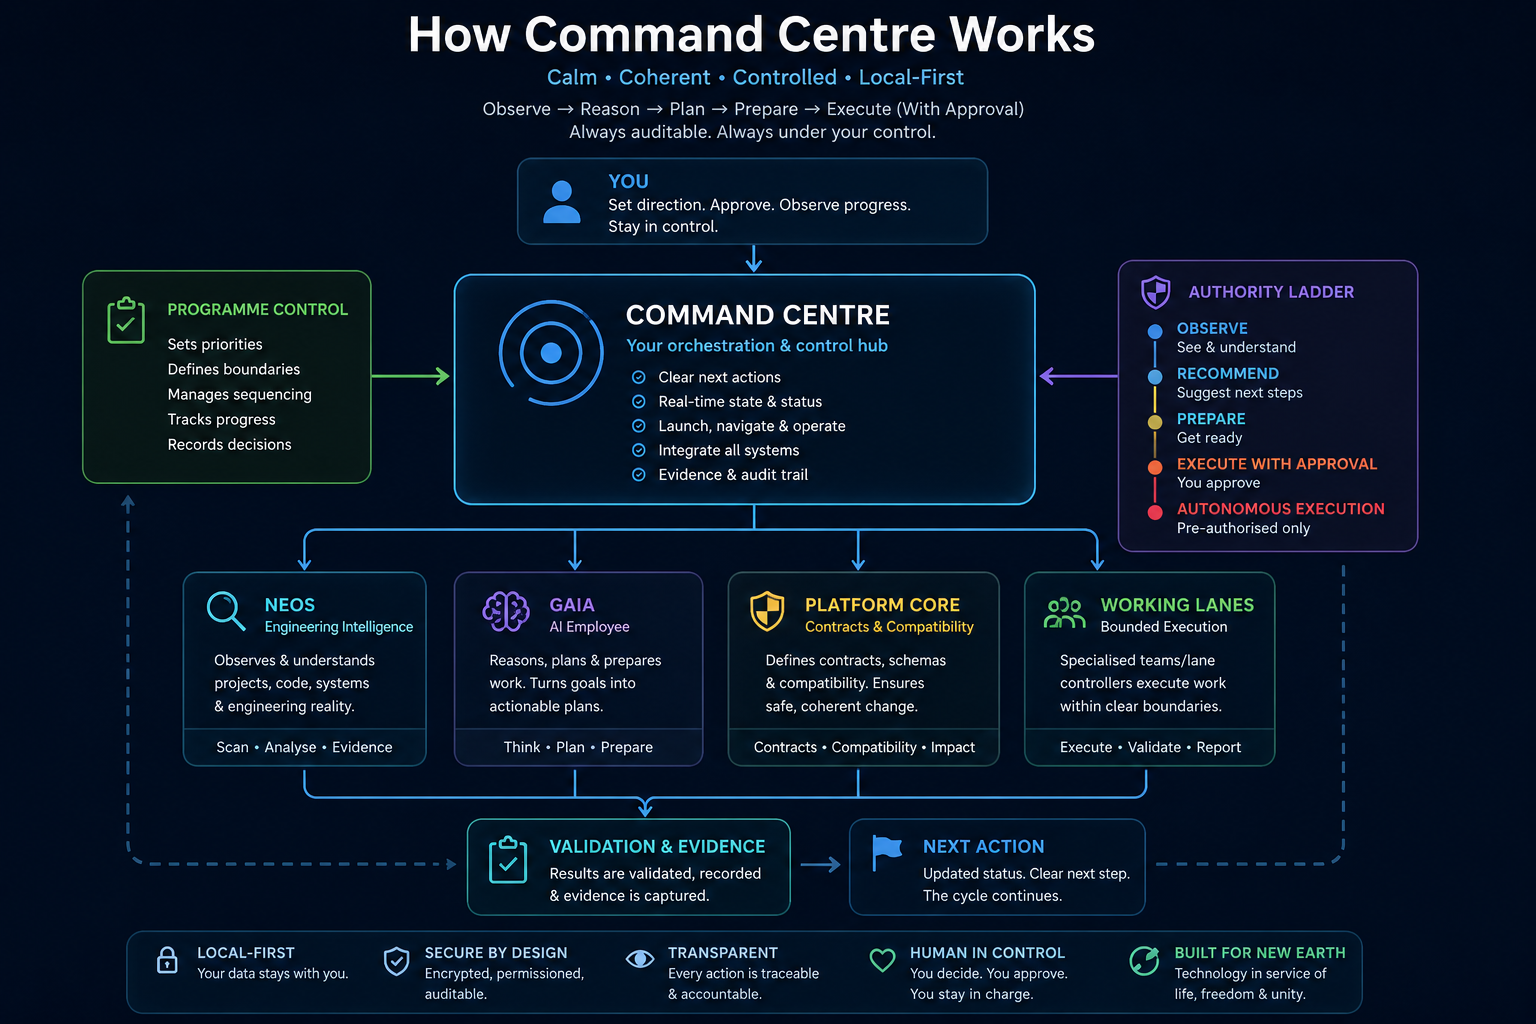
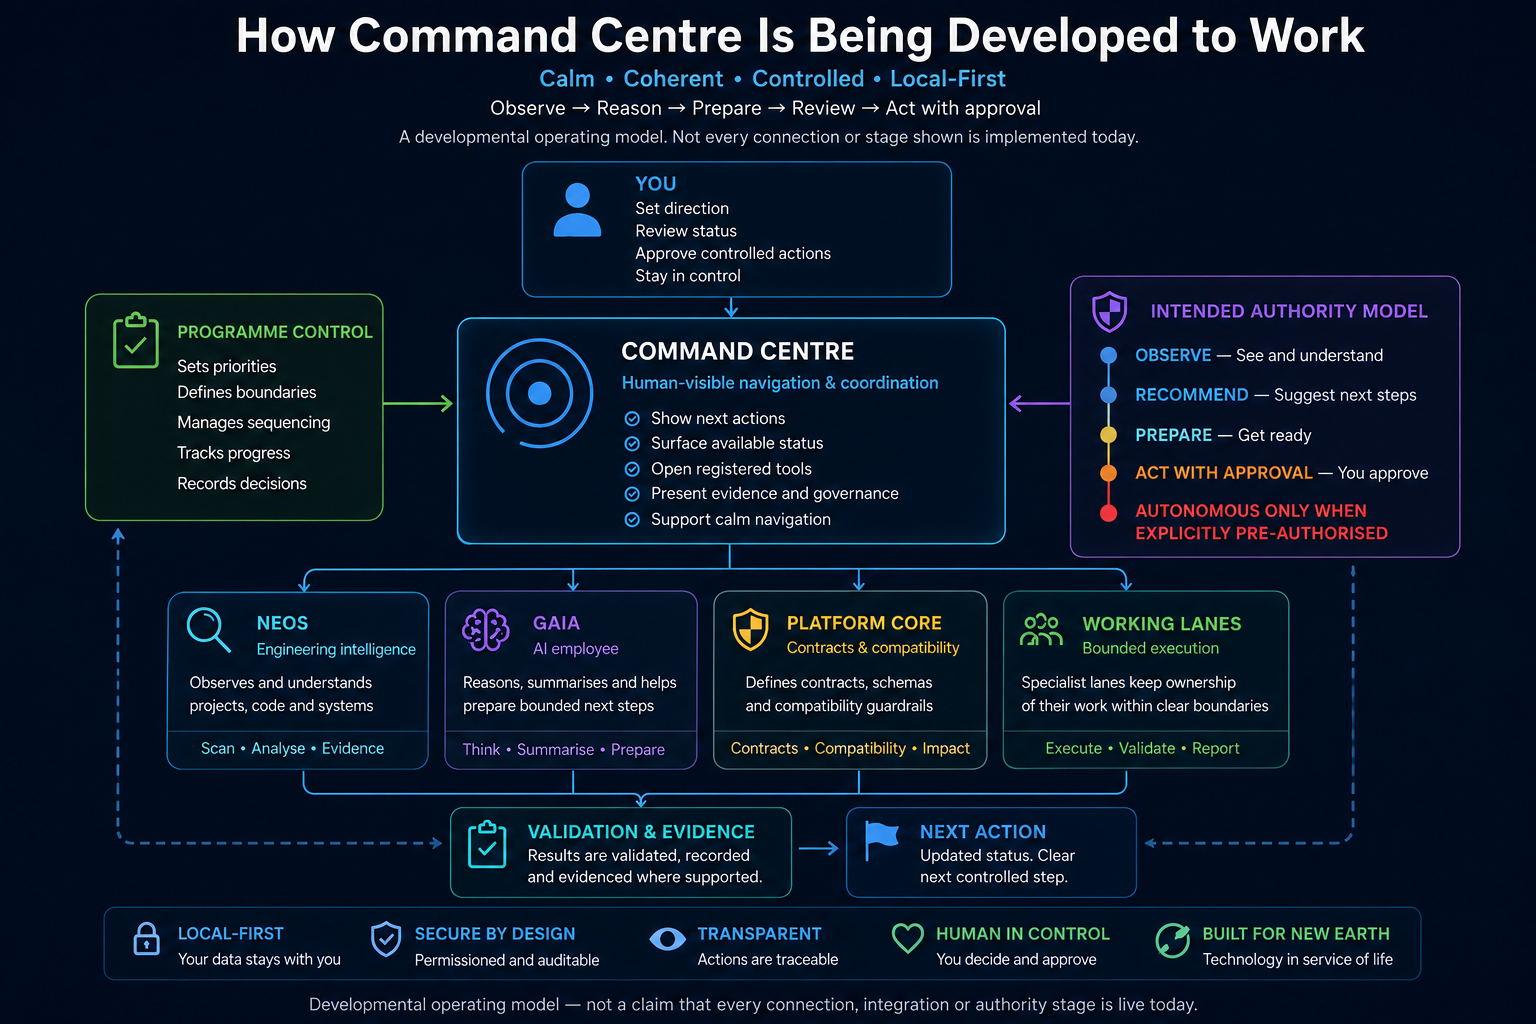
fix(website): complete Command Centre visual alignment

Changed region(s): [[0.0312, 0.0, 0.9375, 1.0], [0.75, 0.8125, 0.875, 0.8438], [0.0625, 0.7812, 0.0938, 0.8125]]

diff --git a/src/data/projects.ts b/src/data/projects.ts
@@ -29,6 +29,12 @@ export type ProjectRecord = {
     caption: string;
     className?: string;
   }[];
+  developmentalVisual?: {
+    src: string;
+    alt: string;
+    label: string;
+    caption: string;
+  };
 };
 
 // Catalogue recognition does not publish a page. Add an entry only after the
@@ -125,7 +131,7 @@ export const publicProjects: ProjectRecord[] = [{
   whatExistsToday: 'The current implementation includes a registry-driven desktop shell, repository and application discovery, launch-target resolution, navigation actions, health and status surfaces, a command palette, audit support and read-only presentation of selected NEOS and GAIA-related information.',
   evidence: [
     'Repository documentation, source implementation and focused tests provide the current evidence for the shell, discovery, navigation, command palette and bounded integrations.',
-    'The conceptual How Command Centre Works diagram is held because its visible language exceeds current evidence; it is not used as current evidence for this page.',
+    'The How Command Centre Works visual is a developmental operating model, not current implementation evidence; its framing makes clear that not every connection or authority stage shown is implemented today.',
   ],
   limitations: [
     'Command Centre does not own engineering intelligence, AI reasoning, project-domain behaviour or arbitrary shell execution.',
@@ -186,4 +192,10 @@ export const publicProjects: ProjectRecord[] = [{
       className: 'visual-evidence--neos',
     },
   ],
+  developmentalVisual: {
+    src: 'CC-VIS-005_how-command-centre-works.png',
+    alt: 'Developmental operating model showing intended Command Centre responsibilities, related system roles and human approval boundaries.',
+    label: 'Developmental operating model',
+    caption: 'Developmental operating model - not a claim that every connection, integration or authority stage is live today.',
+  },
 }];

diff --git a/00_BLUEPRINT/WEBSITE_V2_IMPLEMENTED_BASELINE_STATUS.md b/00_BLUEPRINT/WEBSITE_V2_IMPLEMENTED_BASELINE_STATUS.md
@@ -132,10 +132,12 @@ Command Centre overview, Command Palette, bounded Continue Work view and
 clearly labelled related NEOS context. The conceptual architecture visual is
 held because its raster claims exceed current evidence.
 
-**Command Centre visual evidence V1:** REFINED - PENDING PETER REVIEW.
+**Command Centre visual evidence V1:** FINAL ALIGNMENT COMPLETE - PENDING PETER APPROVAL.
 CC-001 is used as the larger detail hero and the bounded Projects index
 representative image. CC-002 and CC-003 remain real UI evidence, CC-004 is
-clearly separated as related NEOS context, and CC-005 remains held.
+clearly separated as related NEOS context, and CC-005 is rendered as a clearly
+labelled developmental operating model rather than current implementation
+evidence.
 
 **Projects index Command Centre feature:** IMPLEMENTED - PENDING PETER REVIEW.
 Project Page Pattern V1 remains preserved.
